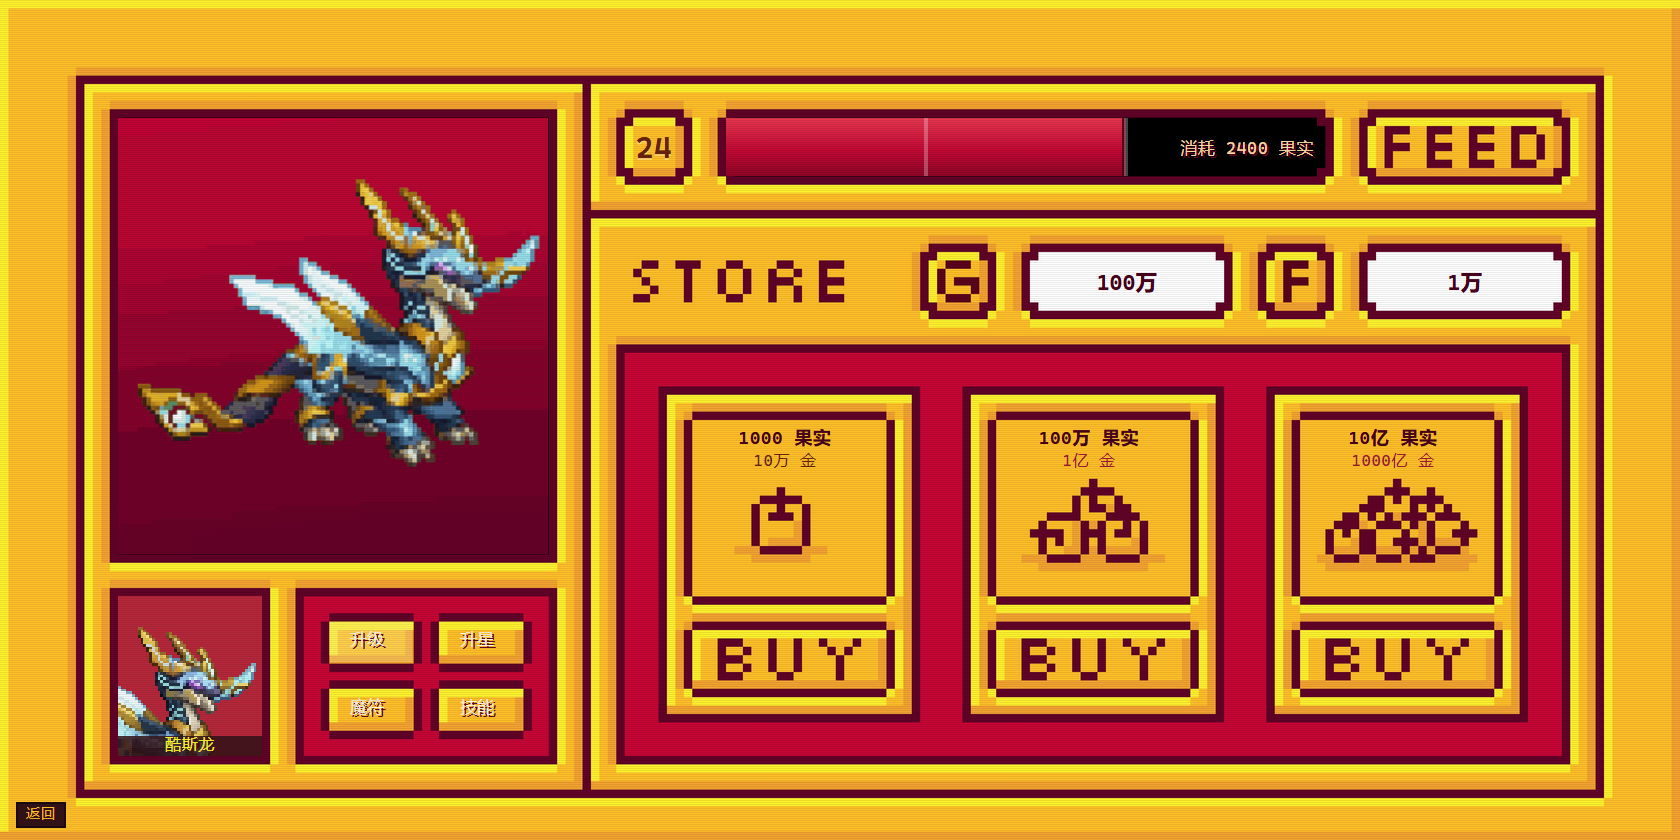
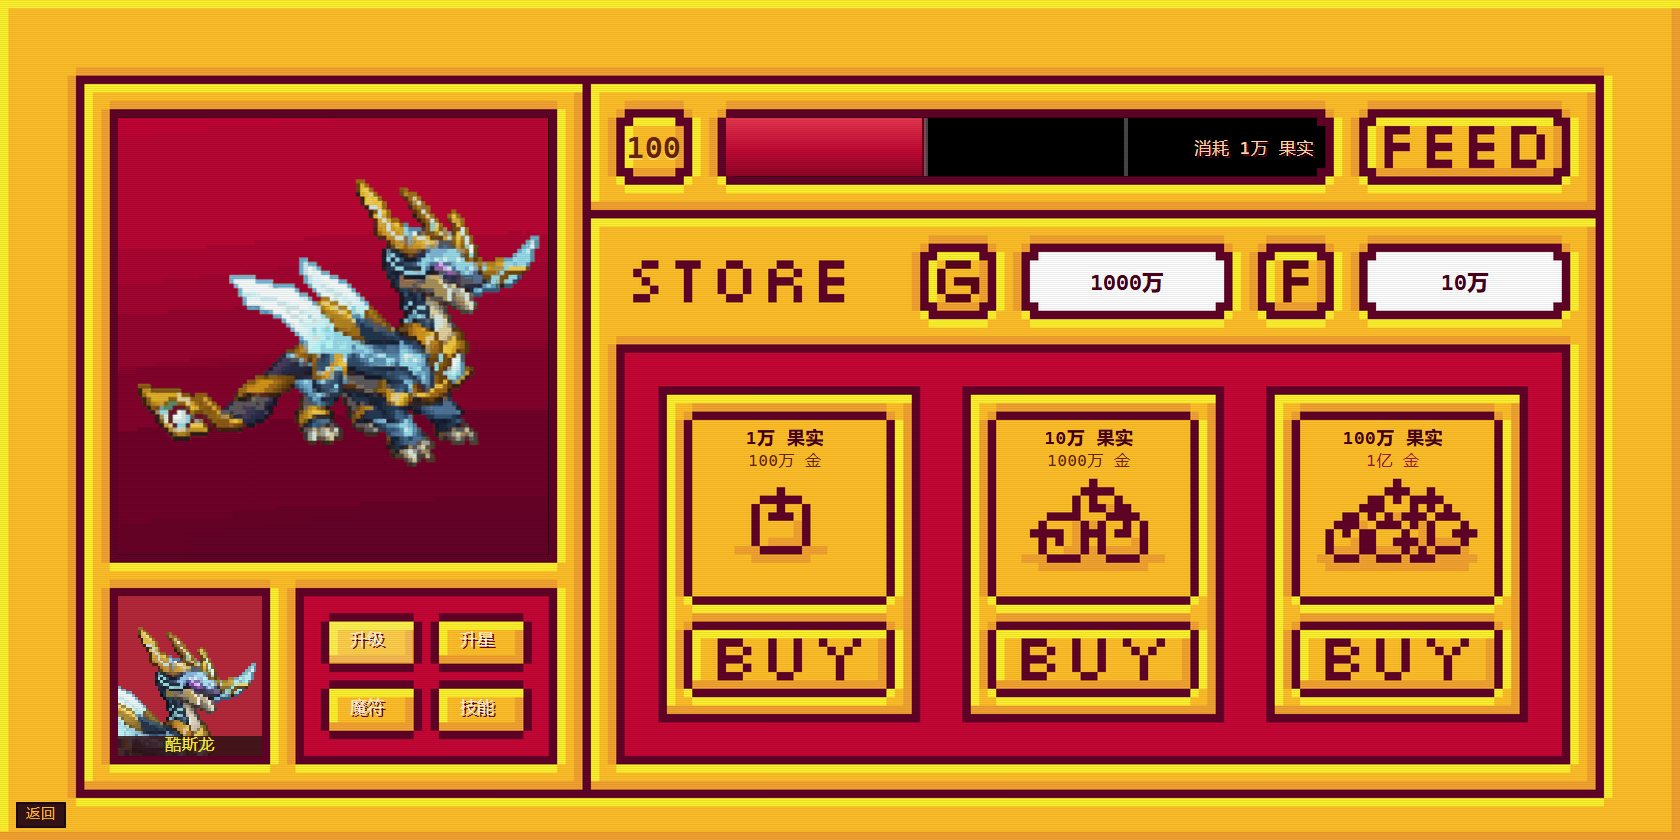
feat: 接入成长曲线，按曲线重定商店礼包
- 新增 src/data/curve.js：数值(L)=基础值×1.2^(L-1)，血 255 / 攻 82
- 新增 src/data/state.js：PlayerState 统一管等级、喂养档位、金币、果实
- 战斗属性改为按等级走曲线（双方都按 100 级，还原原有亿级战力）
- 角色等级统一 100（曲线 L100 = 血 176亿 / 攻 56.6亿）
- 商店礼包按经济重定：1万/10万/100万 果实 @ 100万/1000万/1亿 金
- 初始金币 1000万、果实 10万
- sim.js 加载 curve/state 后重跑：胜率 80.8%，平均 6.5 回合

diff --git a/src/data/guide.js b/src/data/guide.js
@@ -10,17 +10,17 @@ const GUIDE_PER_PAGE = 16;
 const GUIDE_DEX = [
   { name: '奥亚龙',     elements: ['ancient', 'holy', 'fire'],     avatar: 'assets/avatars/aoya.png', full: 'assets/full/aoya.png', level: 1 },
   { name: '巴哈吉尔龙', elements: ['ancient', 'holy', 'water'],    avatar: 'assets/avatars/bahajier.png', full: 'assets/full/bahajier.png', level: 1 },
-  { name: '博卡拉龙',   elements: ['ancient', 'earth', 'fire'],    avatar: 'assets/avatars/bokara.png', full: 'assets/full/bokara.png', level: 22 },
-  { name: '城市守护龙', elements: ['overlord', 'dark', 'earth'],   avatar: 'assets/avatars/city.png', full: 'assets/full/city.png', level: 25 },
+  { name: '博卡拉龙',   elements: ['ancient', 'earth', 'fire'],    avatar: 'assets/avatars/bokara.png', full: 'assets/full/bokara.png', level: 100 },
+  { name: '城市守护龙', elements: ['overlord', 'dark', 'earth'],   avatar: 'assets/avatars/city.png', full: 'assets/full/city.png', level: 100 },
   { name: '恩罗加龙',   elements: ['ancient', 'holy', 'earth'],    avatar: 'assets/avatars/enluojia.png', full: 'assets/full/enluojia.png', level: 1 },
   { name: '弗洛斯克龙', elements: ['ancient', 'holy', 'grass'],    avatar: 'assets/avatars/fuluosike.png', full: 'assets/full/fuluosike.png', level: 1 },
   { name: '格洛姆龙',   elements: ['ancient', 'holy', 'dark'],     avatar: 'assets/avatars/geluomu.png', full: 'assets/full/geluomu.png', level: 1 },
-  { name: '酷斯龙',     elements: ['ancient', 'holy', 'steel'],    avatar: 'assets/avatars/kusu.png', full: 'assets/full/kusu.png', level: 24 },
-  { name: '莱斯克龙',   elements: ['ancient', 'holy', 'light'],    avatar: 'assets/avatars/laiske.png', full: 'assets/full/laiske.png', level: 23 },
-  { name: '棱镜龙',     elements: ['overlord', 'void', 'light'],   avatar: 'assets/avatars/prism.png', full: 'assets/full/prism.png', level: 21 },
+  { name: '酷斯龙',     elements: ['ancient', 'holy', 'steel'],    avatar: 'assets/avatars/kusu.png', full: 'assets/full/kusu.png', level: 100 },
+  { name: '莱斯克龙',   elements: ['ancient', 'holy', 'light'],    avatar: 'assets/avatars/laiske.png', full: 'assets/full/laiske.png', level: 100 },
+  { name: '棱镜龙',     elements: ['overlord', 'void', 'light'],   avatar: 'assets/avatars/prism.png', full: 'assets/full/prism.png', level: 100 },
   { name: '尼尔龙',     elements: ['ancient', 'holy', 'void'],     avatar: 'assets/avatars/nier.png', full: 'assets/full/nier.png', level: 1 },
   { name: '文丘龙',     elements: ['ancient', 'holy', 'breeze'],   avatar: 'assets/avatars/wenqiu.png', full: 'assets/full/wenqiu.png', level: 1 },
-  { name: '伊奥斯加龙', elements: ['ancient', 'fire', 'grass'],    avatar: 'assets/avatars/yiao.png', full: 'assets/full/yiao.png', level: 22 },
+  { name: '伊奥斯加龙', elements: ['ancient', 'fire', 'grass'],    avatar: 'assets/avatars/yiao.png', full: 'assets/full/yiao.png', level: 100 },
   { name: '佐尔托龙',   elements: ['ancient', 'holy', 'electric'], avatar: 'assets/avatars/zuoerto.png', full: 'assets/full/zuoerto.png', level: 1 },
 ];
 

diff --git a/src/ui/level.js b/src/ui/level.js
@@ -32,24 +32,29 @@ const LevelUp = (function () {
     { x: 640, y: 198, w: 121, h: 158 }
   ];
 
-  /* ---------- 数值（这几个数是拍板的占位，改这里就能调） ---------- */
-  var START_GOLD = 1000000;      /* 初始金币 100万 */
-  var START_FRUIT = 10000;       /* 初始果实 1万 */
-
-  /* 每次喂养消耗 = 100 × 当前等级 果实 */
+  /* ---------- 数值 ----------
+   * 喂养成本保持「100 × 当前等级 果实 / 次」，每级 3 次。
+   * 成长曲线走 1.2 的等比（见 src/data/curve.js），
+   * 经济平衡靠下面三个礼包的容量来调。
+   *
+   * 按 Lv100 算：一次喂养 10,000 果实，升一级 30,000 果实。
+   *   小包 1 万果实  = 满级后 1 次喂养
+   *   中包 10 万果实 = 约 3.3 级
+   *   大包 100 万果实= 约 33 级
+   * 价格统一 100 金 / 果实。
+   */
   function feedCost(level) {
     return 100 * Math.max(1, level);
   }
 
   var SHOP = [
-    { fruit: 1000, price: 100000 },
-    { fruit: 1000000, price: 100000000 },
-    { fruit: 1000000000, price: 100000000000 }
+    { fruit: 10000, price: 1000000 },
+    { fruit: 100000, price: 10000000 },
+    { fruit: 1000000, price: 100000000 }
   ];
 
-  /* ---------- 运行时状态（内存） ---------- */
-  var wallet = { gold: START_GOLD, fruit: START_FRUIT };
-  var chars = {};           /* name -> { level, feed } */
+  /* ---------- 运行时状态（玩家等级/钱包都在 PlayerState 里） ---------- */
+  var wallet = PlayerState.wallet;
   var current = null;       /* 当前角色 */
   var tipTimer = 0;
 
@@ -57,12 +62,7 @@ const LevelUp = (function () {
 
   function stateOf(ch) {
     if (!ch) return null;
-    var st = chars[ch.name];
-    if (!st) {
-      st = { level: ch.level || 1, feed: 0 };
-      chars[ch.name] = st;
-    }
-    return st;
+    return PlayerState.entry(ch.name, ch.level);
   }
 
   /* 数字缩写：1000 / 100万 / 10亿 */

diff --git a/src/data/characters.js b/src/data/characters.js
@@ -12,19 +12,19 @@
  * ========================================================= */
 const PLAYER_TEAM = [
   {
-    name: '酷斯龙', title: '古岩守望', level: 24,
+    name: '酷斯龙', title: '古岩守望', level: 100,
     elements: ['ancient', 'holy', 'steel'],
     hp: 20014343843, atk: 6211348089, crit: 10,
     avatarUrl: 'assets/avatars/kusu.png',
   },
   {
-    name: '博卡拉龙', title: '熔岩行者', level: 22,
+    name: '博卡拉龙', title: '熔岩行者', level: 100,
     elements: ['ancient', 'earth', 'fire'],
     hp: 19945328865, atk: 6142333110, crit: 10,
     avatarUrl: 'assets/avatars/bokara.png',
   },
   {
-    name: '棱镜龙', title: '棱光之影', level: 21,
+    name: '棱镜龙', title: '棱光之影', level: 100,
     elements: ['overlord', 'void', 'light'],
     hp: 20359418737, atk: 5866273195, crit: 10,
     avatarUrl: 'assets/avatars/prism.png',
@@ -33,19 +33,19 @@ const PLAYER_TEAM = [
 
 const ENEMY_TEAM = [
   {
-    name: '莱斯克龙', title: '圣辉巨龙', level: 23,
+    name: '莱斯克龙', title: '圣辉巨龙', level: 100,
     elements: ['ancient', 'holy', 'light'],
     hp: 20014343843, atk: 6211348089, crit: 10,
     avatarUrl: 'assets/avatars/laiske.png',
   },
   {
-    name: '伊奥斯加龙', title: '烈焰幼龙', level: 22,
+    name: '伊奥斯加龙', title: '烈焰幼龙', level: 100,
     elements: ['ancient', 'fire', 'grass'],
     hp: 19945328865, atk: 6142333110, crit: 10,
     avatarUrl: 'assets/avatars/yiao.png',
   },
   {
-    name: '城市守护龙', title: '暗影壁垒', level: 25,
+    name: '城市守护龙', title: '暗影壁垒', level: 100,
     elements: ['overlord', 'dark', 'earth'],
     hp: 20566463673, atk: 6211348089, crit: 10,
     avatarUrl: 'assets/avatars/city.png',

diff --git a/src/data/state.js b/src/data/state.js
@@ -1,0 +1,45 @@
+/* =========================================================
+ * 玩家状态（内存）
+ *
+ * 目前还没有存档，这里就是「一局游戏里所有会变的东西」：
+ *   - 每个角色的等级和喂养档位（0 / 1 / 2）
+ *   - 金币、果实
+ * 战斗和管理界面都从这里读，等接入存档时只要把读写
+ * 换成持久化即可，其它代码不用动。
+ * ========================================================= */
+const PlayerState = (function () {
+  var entries = {};          /* name -> { level, feed } */
+  var wallet = {
+    gold: 10000000,          /* 初始金币 1000 万 */
+    fruit: 100000           /* 初始果实 10 万 */
+  };
+
+  /* 取（必要时创建）某个角色的状态，返回的是活对象，可直接改 */
+  function entry(name, baseLevel) {
+    if (!name) return { level: 1, feed: 0 };
+    var e = entries[name];
+    if (!e) {
+      e = { level: Math.max(1, Math.floor(baseLevel || 1)), feed: 0 };
+      entries[name] = e;
+    }
+    return e;
+  }
+
+  function levelOf(name, fallback) {
+    var e = entries[name];
+    return e ? e.level : Math.max(1, Math.floor(fallback || 1));
+  }
+
+  function reset() {
+    entries = {};
+    wallet.gold = 10000000;
+    wallet.fruit = 100000;
+  }
+
+  return {
+    entry: entry,
+    levelOf: levelOf,
+    reset: reset,
+    wallet: wallet
+  };
+})();

diff --git a/src/engine/battle.js b/src/engine/battle.js
@@ -775,20 +775,25 @@ const Battle = (function () {
   /* ================= 构造战斗 ================= */
   function makeChar(tpl, side, slot) {
     const elements = (tpl.elements || [tpl.element]).slice();
+    /* 等级决定属性：血量 / 攻击都走成长曲线（src/data/curve.js） */
+    const lv = (typeof PlayerState !== 'undefined')
+      ? PlayerState.entry(tpl.name, tpl.level).level
+      : tpl.level;
+    const cs = (typeof curveStats === 'function') ? curveStats(lv) : null;
     return {
       uid: (side === 'ally' ? 'p' : 'e') + slot,
       side,
       slot,
       name: tpl.name,
       title: tpl.title,
-      level: tpl.level,
+      level: lv,
       elements,                 // [主元素, 副元素, 副元素]
       element: elements[0],     // 主元素 = 属性，决定被什么克制
       avatarUrl: tpl.avatarUrl || '',
       /* 每局重建角色，对手龙固定 100% 生命开局，不继承上一局的损耗 */
-      maxHp: tpl.hp,
-      hp: tpl.hp,
-      atk: tpl.atk,
+      maxHp: cs ? cs.hp : tpl.hp,
+      hp: cs ? cs.hp : tpl.hp,
+      atk: cs ? cs.atk : tpl.atk,
       crit: tpl.crit == null ? 10 : tpl.crit,
       skills: skillsOfElements(elements),
       statuses: [],

diff --git a/src/data/curve.js b/src/data/curve.js
@@ -1,0 +1,32 @@
+/* =========================================================
+ * 成长曲线
+ *
+ * 由「角色等级数值表」拟合得出：数值严格按 1.2 的等比增长
+ *   数值(L) = 基础值 × 1.2^(L-1)
+ * 拟合误差在 0.001% 以内（L10 那一行有取整噪声）。
+ *
+ * 表里两列同时命中同一条曲线：
+ *   血量 1 级 255 → 100 级 17,598,819,586
+ *   攻击 1 级  82 → 100 级  5,659,228,259
+ * 攻血比恒为 3.1098，所以同级对局的击杀手数在任何等级都一样。
+ *
+ * 注意：双精度整数上限 2^53 ≈ 9.0e15，本曲线到 Lv172 左右会溢出。
+ * ========================================================= */
+const CURVE = {
+  hp1: 255,
+  atk1: 82,
+  k: 1.2,
+  maxLevel: 170          /* 超过这个等级双精度会失真，先挡一下 */
+};
+
+function curveStat(base, level) {
+  var lv = Math.max(1, Math.min(CURVE.maxLevel, Math.floor(level || 1)));
+  return Math.round(base * Math.pow(CURVE.k, lv - 1));
+}
+
+function curveStats(level) {
+  return {
+    hp: curveStat(CURVE.hp1, level),
+    atk: curveStat(CURVE.atk1, level)
+  };
+}

diff --git a/src/main.js b/src/main.js
@@ -256,7 +256,10 @@
 
     const screen = params.get('screen');
     if (screen === 'level') {
-      LevelUp.open(GUIDE_DEX[Number(params.get('idx')) || 0], Number(params.get('lv')), Number(params.get('feed')));
+      var lvP = params.get('lv'), fdP = params.get('feed');
+      LevelUp.open(GUIDE_DEX[Number(params.get('idx')) || 0],
+        lvP == null ? null : Number(lvP),
+        fdP == null ? null : Number(fdP));
     } else if (screen === 'growth') {
       Manage.open(Number(params.get('page')) || 0);
       showGrowth(params.get('label') || '升 级', null);

diff --git a/index.html b/index.html
@@ -128,6 +128,8 @@
 <script defer src="./src/data/elements.js"></script>
 <script defer src="./src/data/statuses.js"></script>
 <script defer src="./src/data/skills.js"></script>
+<script defer src="./src/data/curve.js"></script>
+<script defer src="./src/data/state.js"></script>
 <script defer src="./src/data/characters.js"></script>
 <script defer src="./src/data/guide.js"></script>
 <script defer src="./src/ui/pixelart.js"></script>

diff --git a/tools/sim.js b/tools/sim.js
@@ -14,6 +14,8 @@ const FILES = [
   'src/data/elements.js',
   'src/data/statuses.js',
   'src/data/skills.js',
+  'src/data/curve.js',
+  'src/data/state.js',
   'src/data/characters.js',
   'src/engine/battle.js',
 ];
